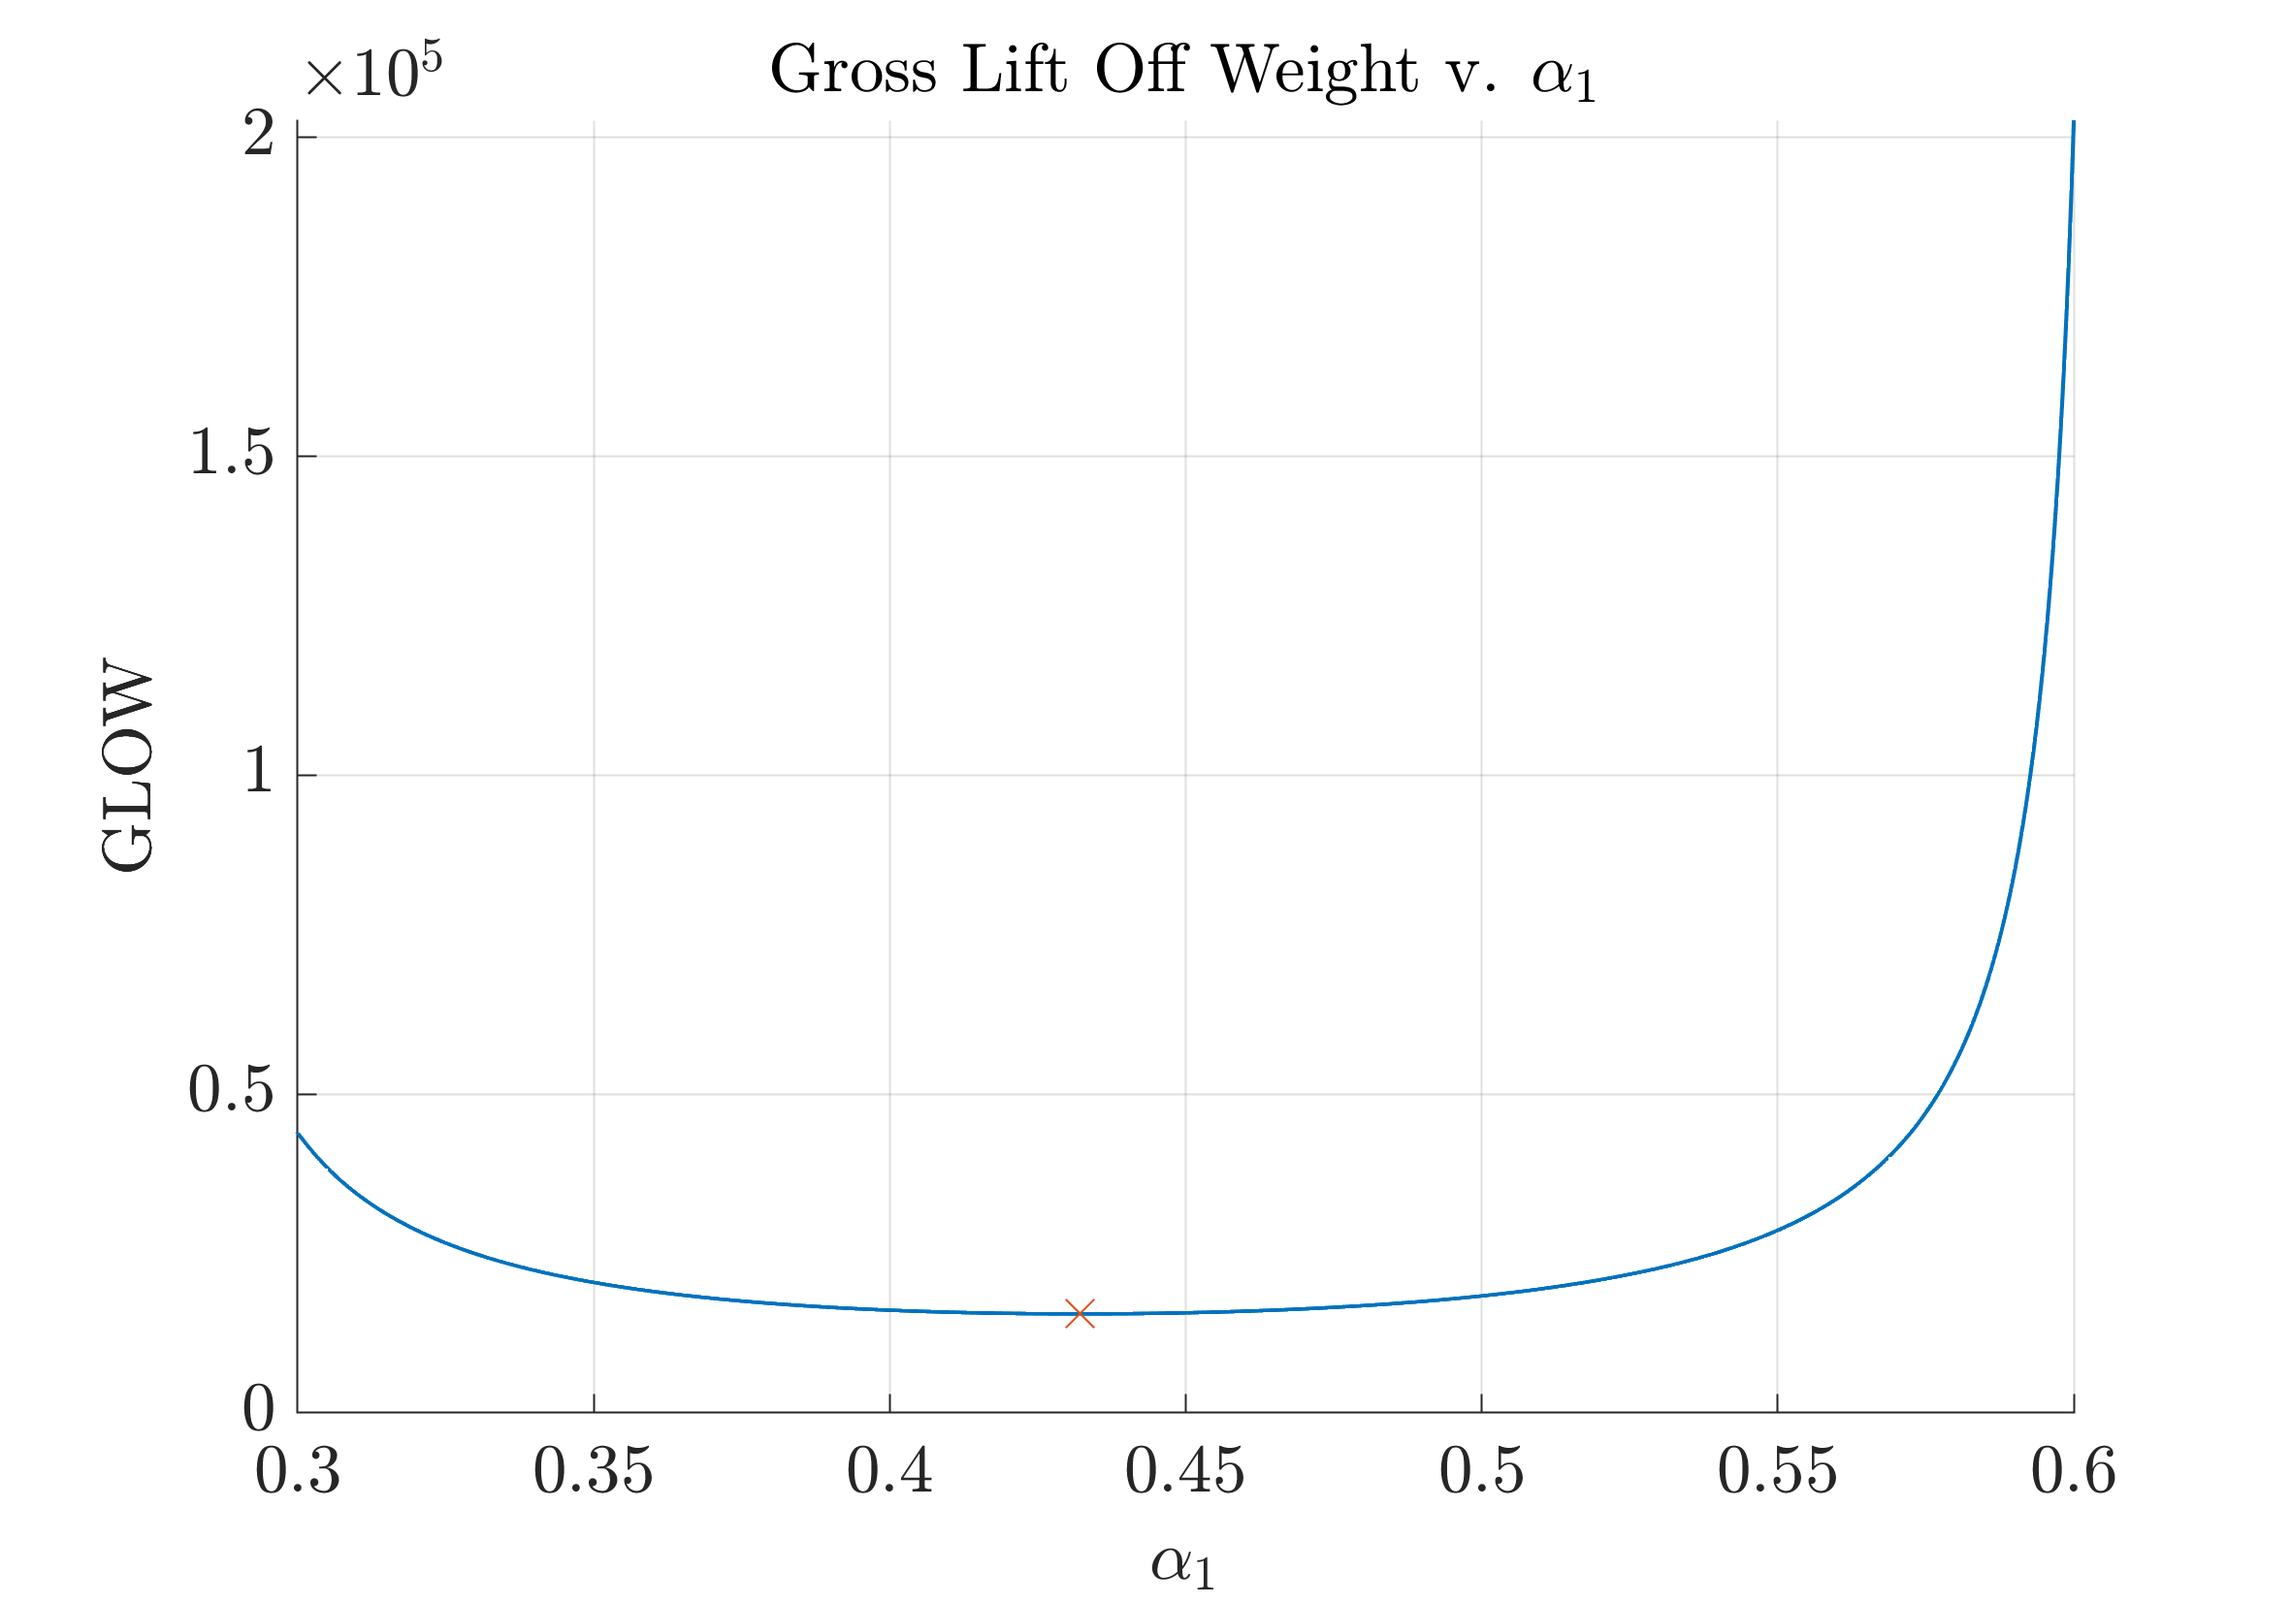
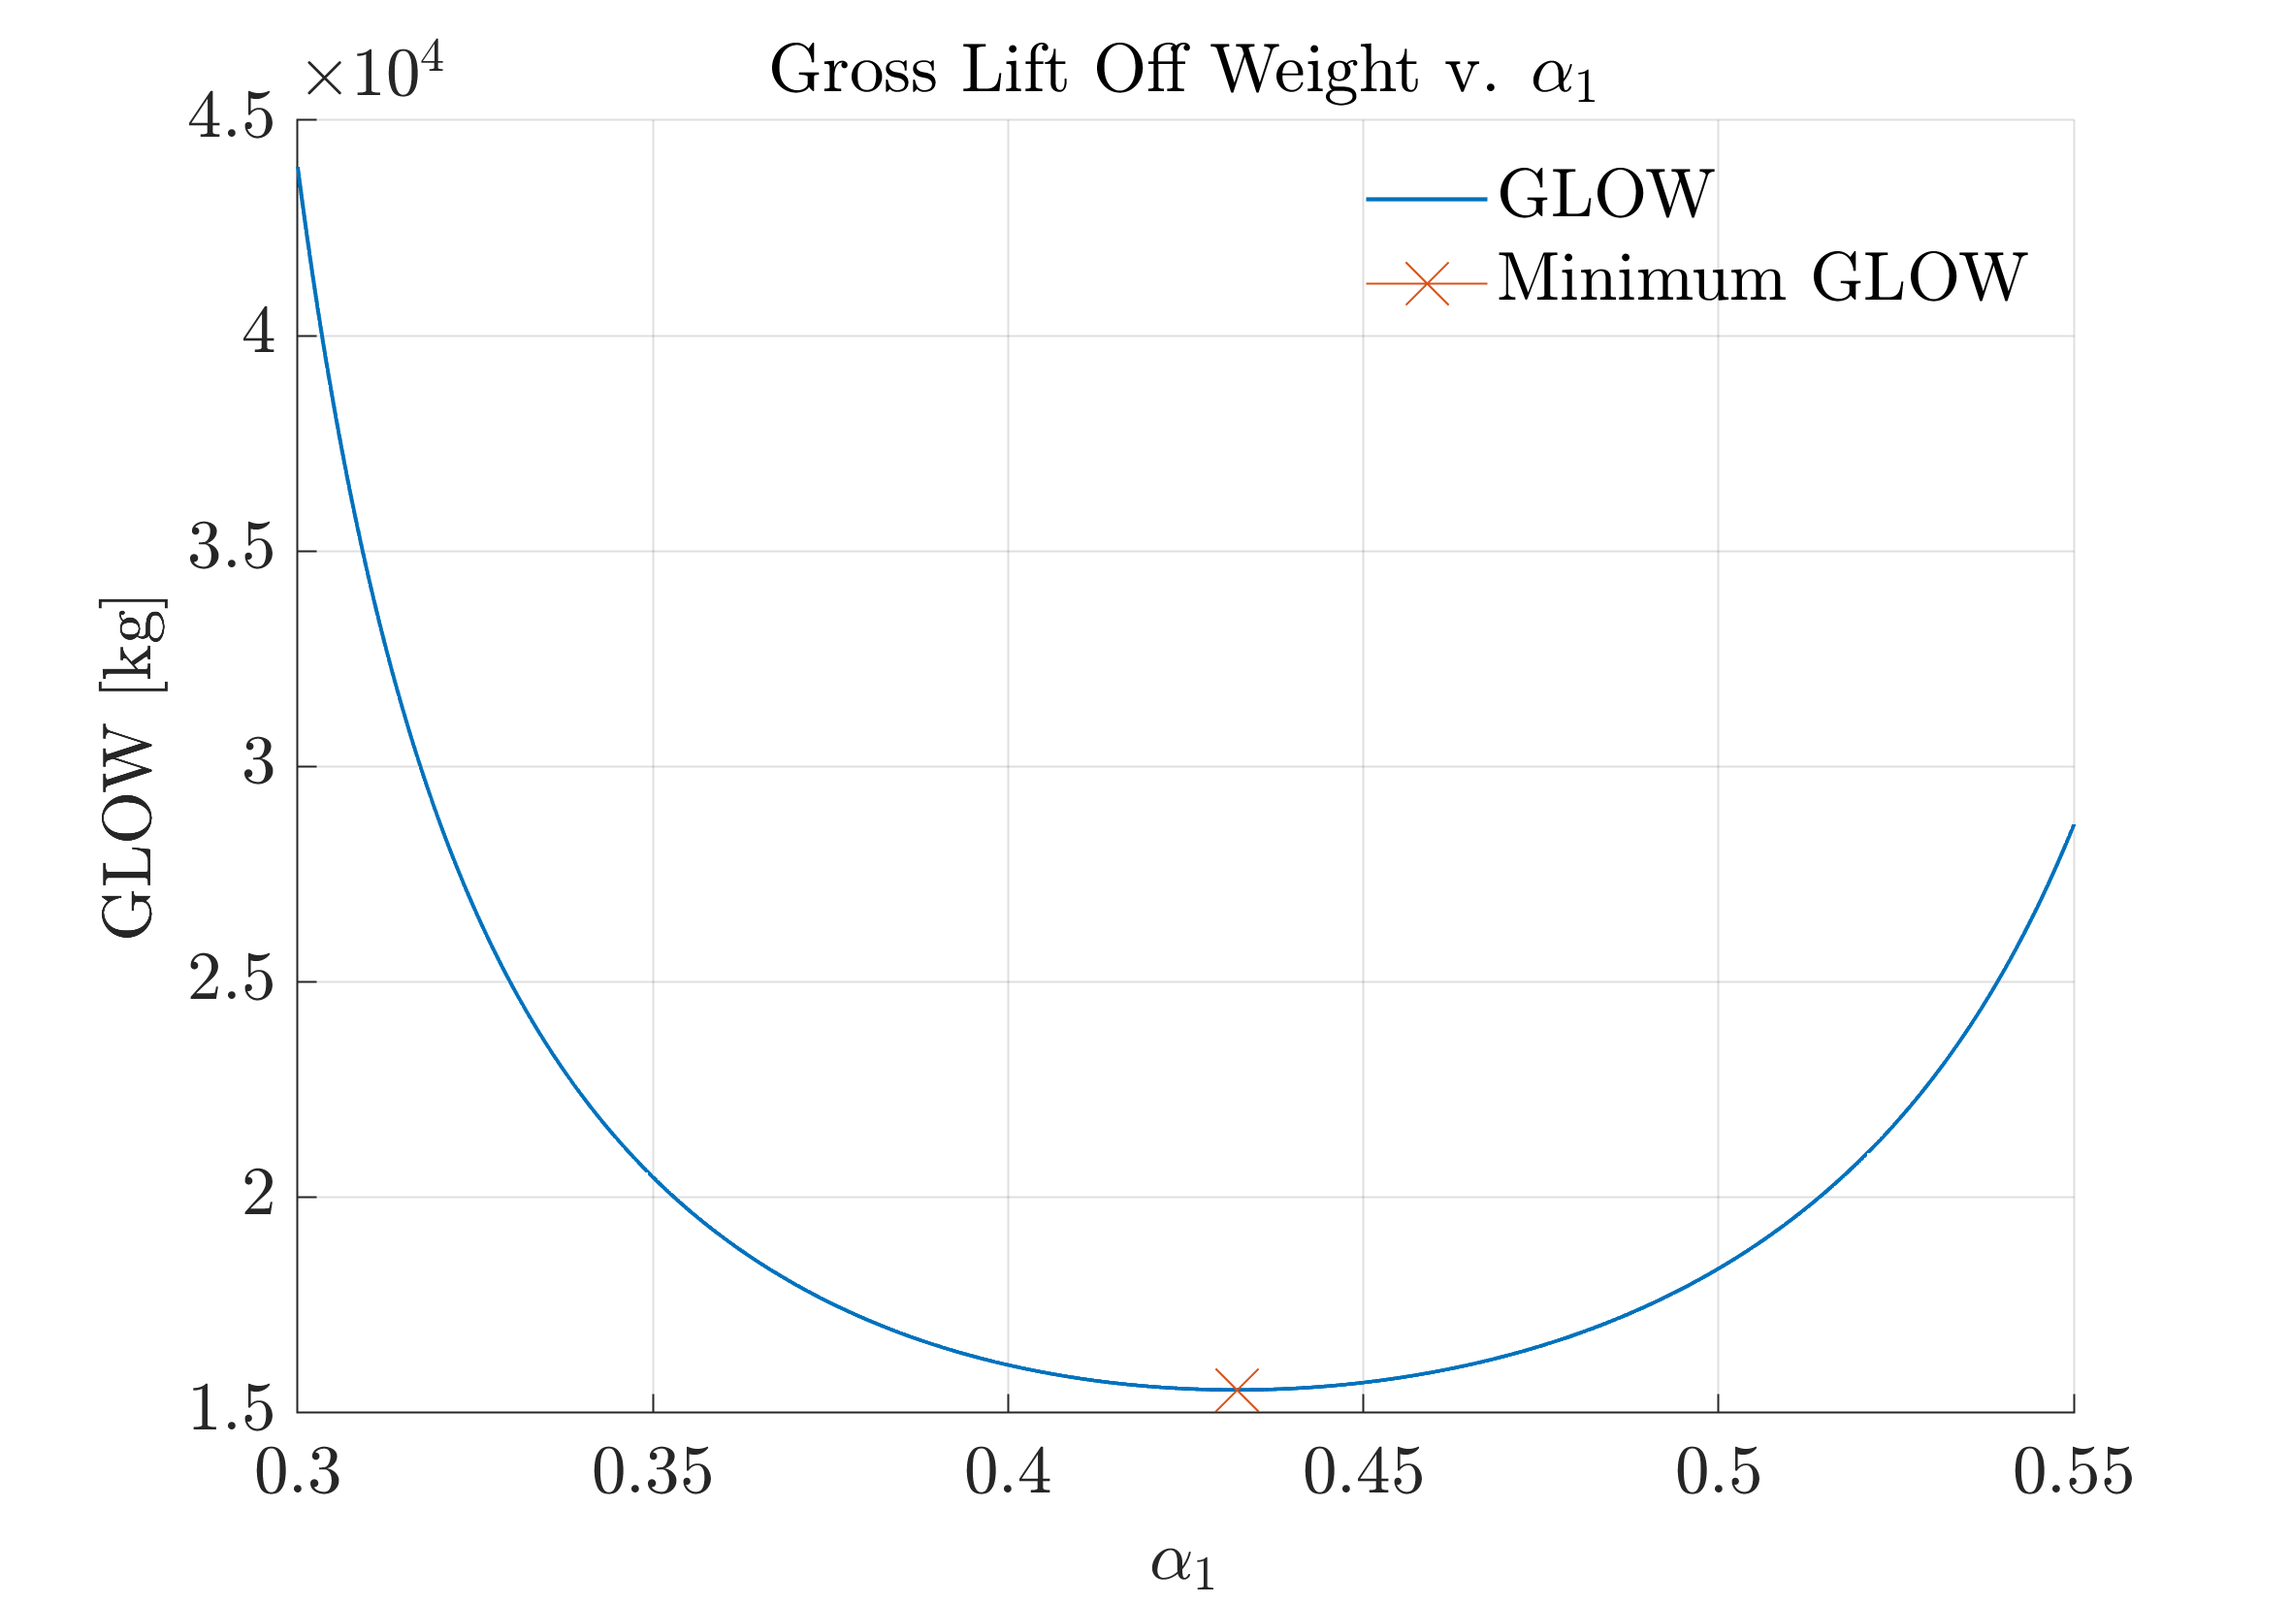
bullshit

diff --git a/AAE251_HW7_Q2b.m b/AAE251_HW7_Q2b.m
@@ -6,7 +6,7 @@
 %% Initializations 
 
 isp2List = [356, 372, 383, 399, 445]; % list of possible isps [s]
-alphaList = 0.30:0.01:0.5;           % list of alpha values
+alphaList = 0.30:0.001:0.5;           % list of alpha values
 fInert = 1/12;                        % Inert mass fraction
 g = 9.81;                             % Gravity
 isp1 = 295;                           % Specific impulse of stage one
@@ -45,13 +45,37 @@ for k = 1:length(alphaList)
     %i = i + 1;
 end
 
-figure(1)
+hfig = figure;  % save the figure handle in a variable
 
-plot(alphaList, mInit)
-xlim([0.33 0.5])
+fname = 'HW7b';
 
-figure(2)
+
 plot(alpha2Array, mInit)
+title("GLOW vs. $\alpha_2$")
 
-legend("356 s", "372 s", "383 s", "399 s", "445 s")
+xlabel('$\alpha_2$')
+ylabel('GLOW [kg]')
+
+xlim([0.5 0.67])
+
+legend("356 s", "372 s", "383 s", "399 s", "445 s", 'location', 'northwest')
+
+picturewidth = 20; % set this parameter and keep it forever
+hw_ratio = 0.7; % feel free to play with this ratio
+set(findall(hfig,'-property','FontSize'),'FontSize',17) % adjust fontsize to your document
+set(findall(hfig,'-property','Box'),'Box','off') % optional
+set(findall(hfig,'-property','Interpreter'),'Interpreter','latex') 
+set(findall(hfig,'-property','TickLabelInterpreter'),'TickLabelInterpreter','latex')
+set(hfig,'Units','centimeters','Position',[3 3 picturewidth hw_ratio*picturewidth])
+pos = get(hfig,'Position');
+set(hfig,'PaperPositionMode','Auto','PaperUnits','centimeters','PaperSize',[pos(3), pos(4)])
+%print(hfig,fname,'-dpdf','-painters','-fillpage')
+print(hfig,fname,'-dpng', '-r300')
+
+%% Outputs
+
+% Output necessary information
+fprintf("The alpha one value that leads to a minimum GLOW value is: %.4f\n", idealAlphaOne)
+fprintf("The corresponding alpha two value is: %.4f\n", idealAlphaTwo)
+fprintf("The corresponding propellant mass is: %.4f\n", idealMProp)
 

diff --git a/AAE251_HW7_Q2a.m b/AAE251_HW7_Q2a.m
@@ -65,10 +65,13 @@ fname = 'HW7a';
 title("GLOW vs. Alpha One")
 plot(alphaOneArray, mInit, 'Linewidth', 1)
 hold on
-plot(idealAlphaOne, idealMInit, Marker="x", MarkerSize=10)
+plot(idealAlphaOne, idealMInit, Marker="x", MarkerSize=15)
 xlabel('$\alpha_1$')
-ylabel('GLOW')
+ylabel('GLOW [kg]')
+xlim([0.3 0.55])
 title('Gross Lift Off Weight v. $\alpha_1$')
+
+legend("GLOW", "Minimum GLOW")
 
 grid on
 
